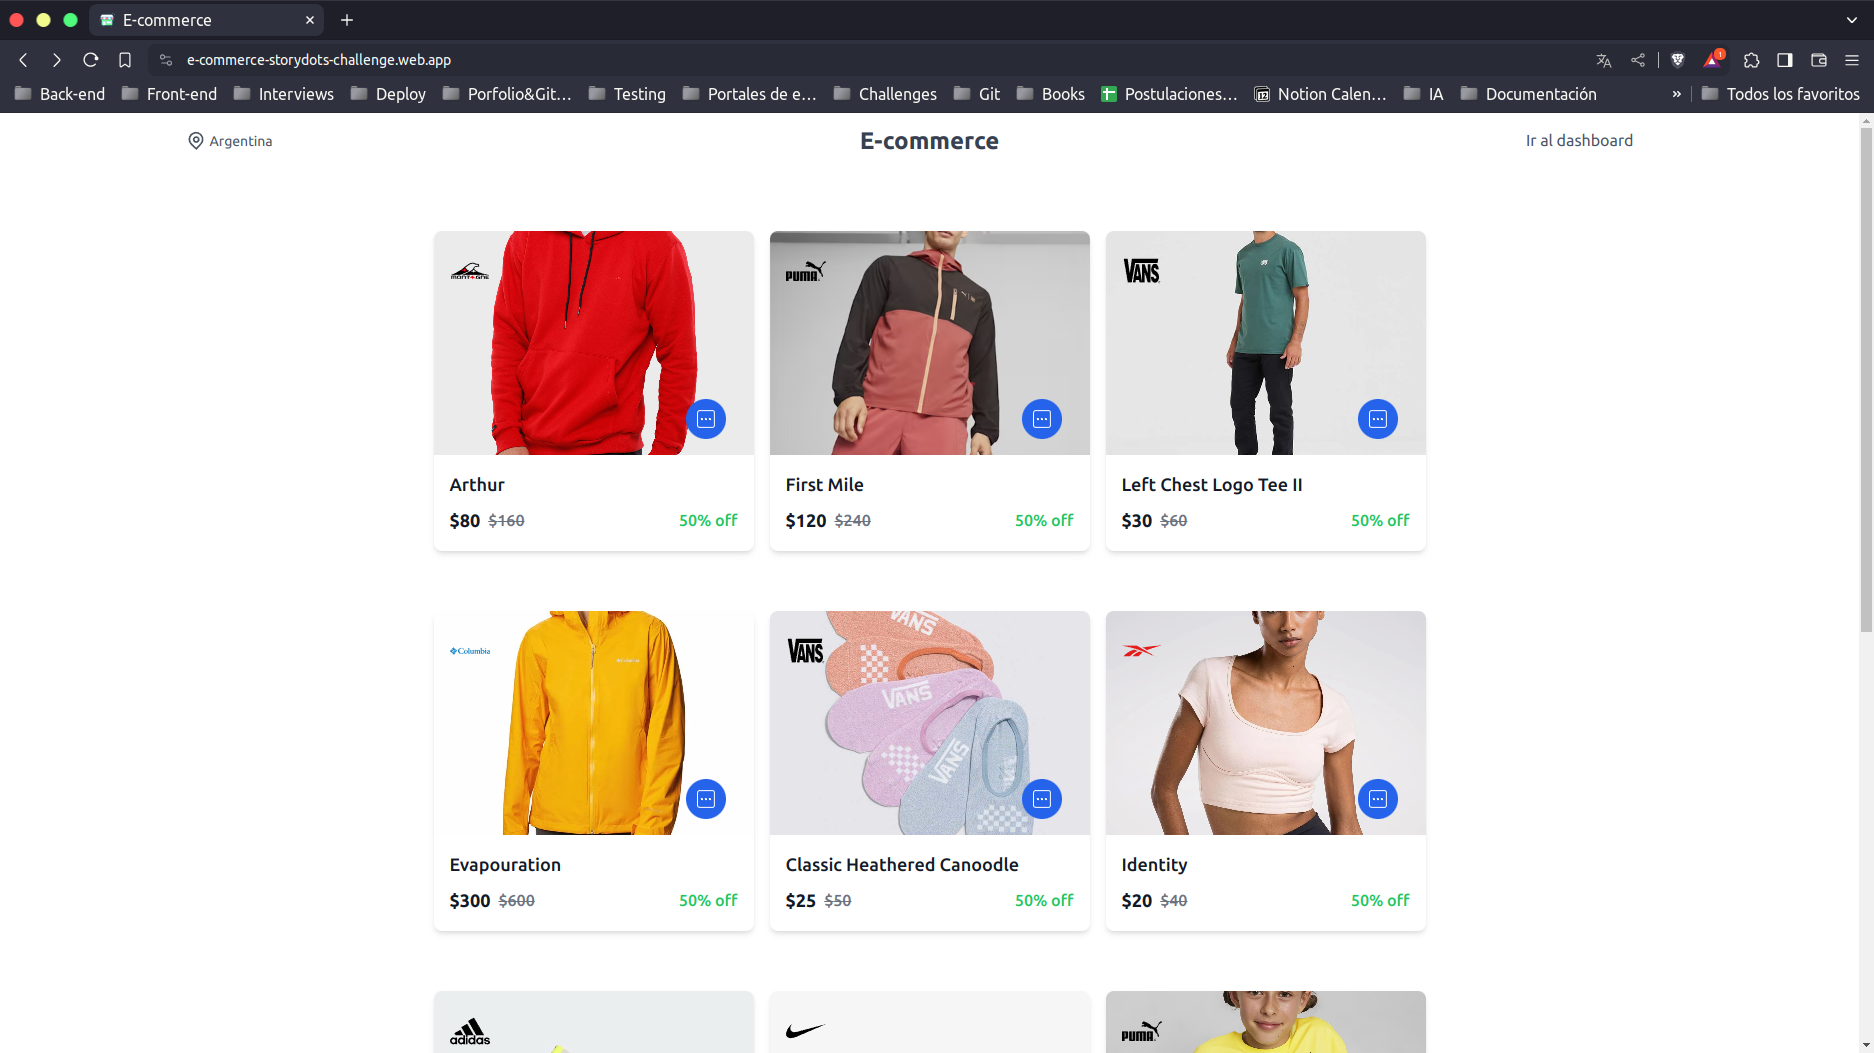
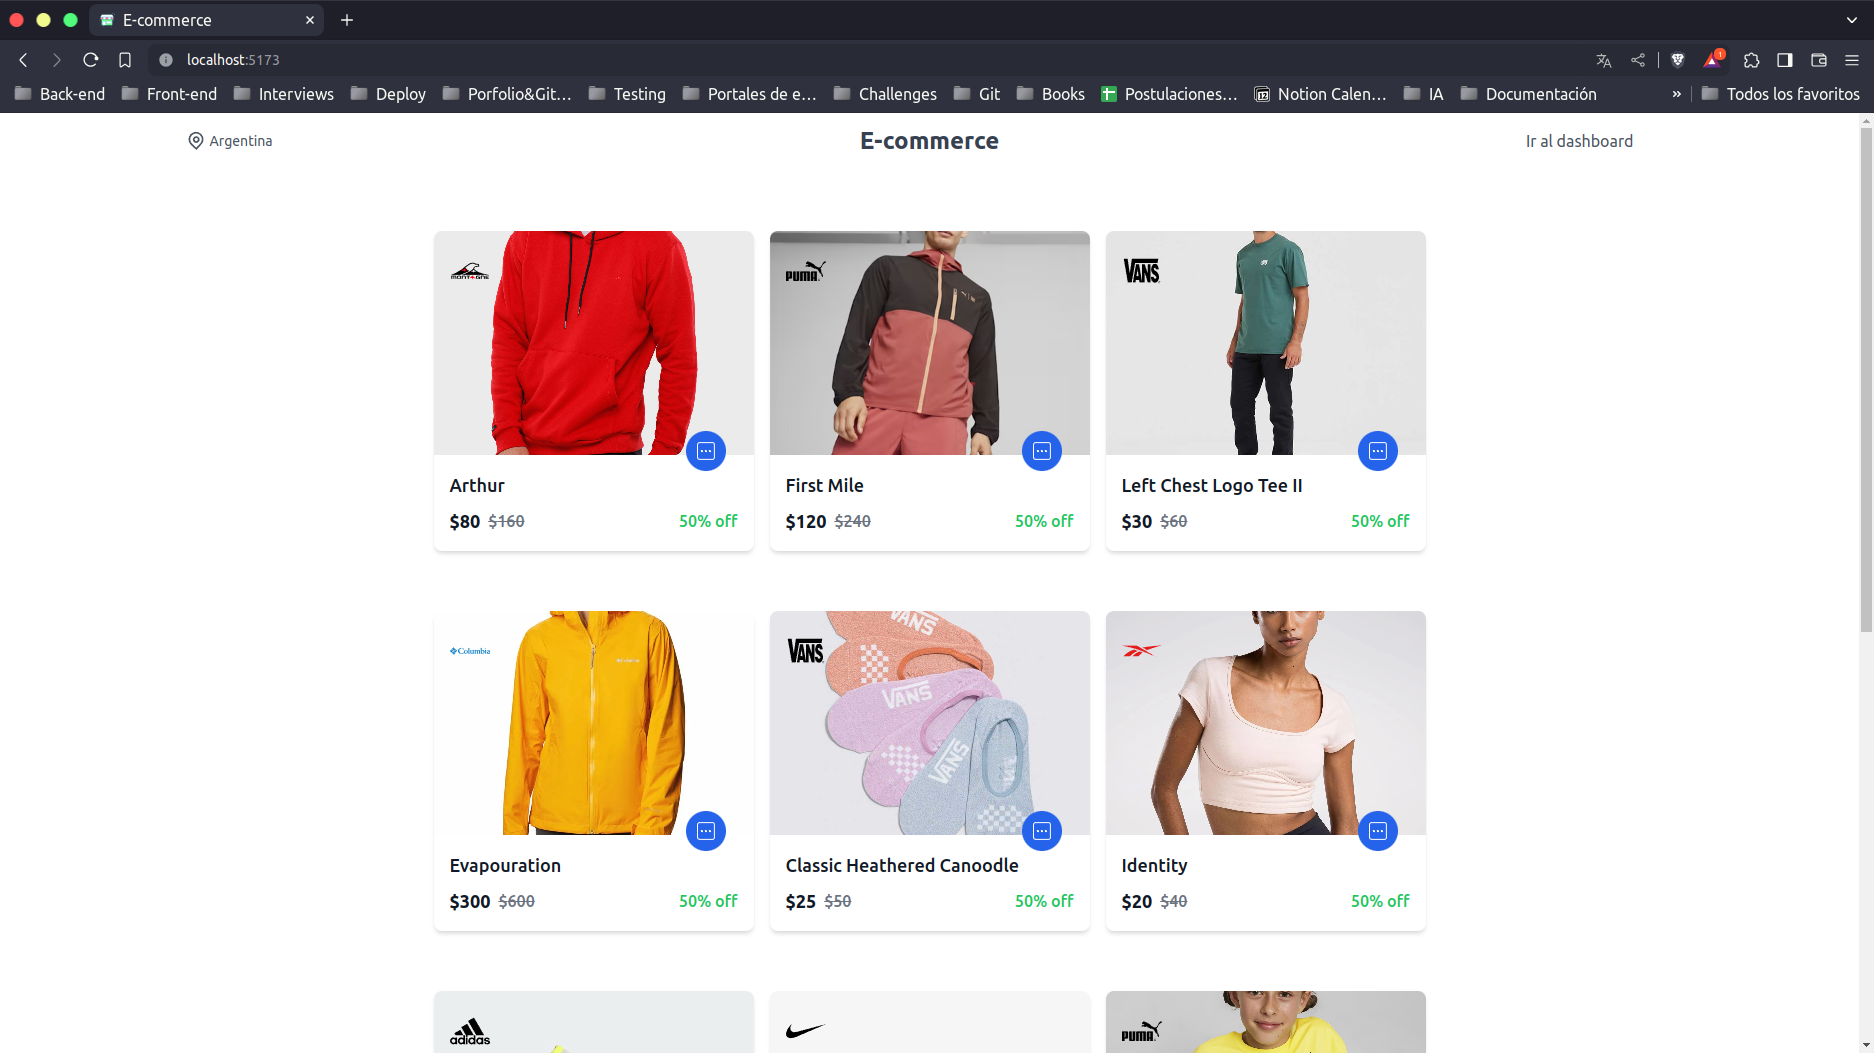
fix/styles

diff --git a/frontend/src/components/product-card.tsx b/frontend/src/components/product-card.tsx
@@ -44,7 +44,7 @@ export function ProductCard({ product }: Props) {
           onClick={() => {
             navigate(`/product/${product.id}`)
           }}
-          className='absolute bottom-32 right-2 p-2 rounded-full bg-blue-600 text-white mx-5 -mb-4 hover:bg-blue-500 focus:outline-none focus:bg-blue-500'
+          className='absolute bottom-24 right-2 p-2 rounded-full bg-blue-600 text-white mx-5 -mb-4 hover:bg-blue-500 focus:outline-none focus:bg-blue-500'
         >
           <CiSquareMore className='w-6 h-6' />
         </button>
